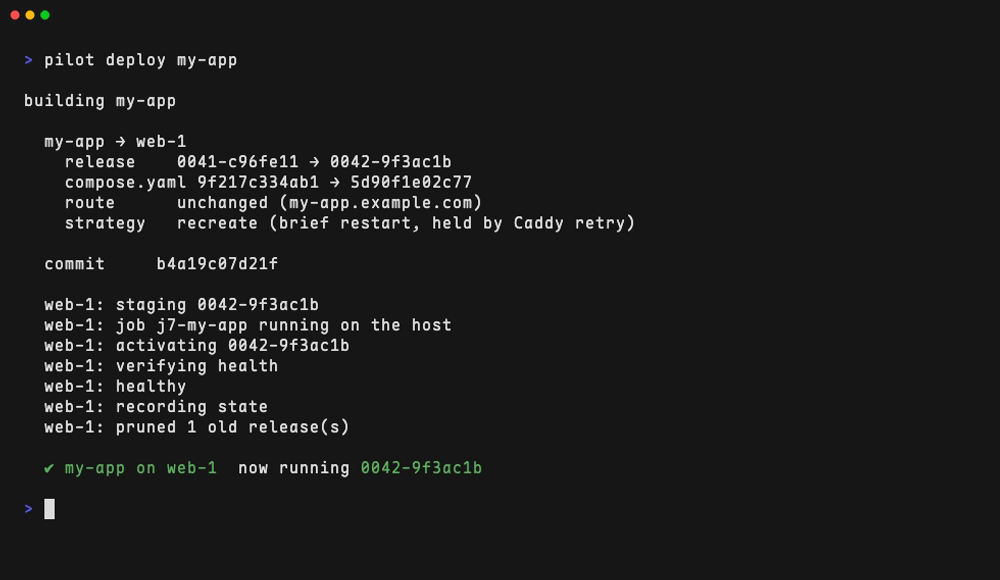
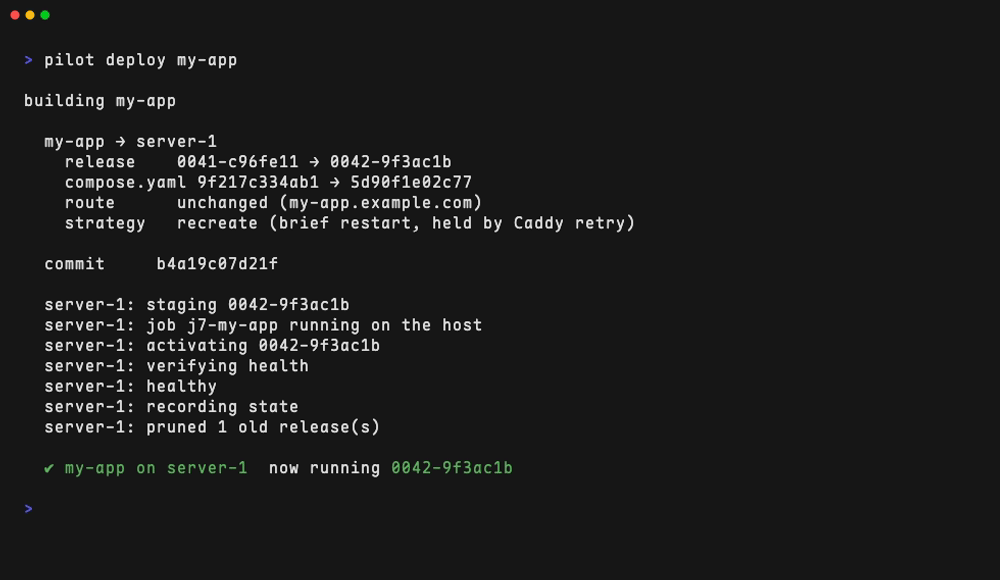
docs(readme): hosts are called servers, because that is what they are
web-1 and web-2 read as jargon to anyone who does not already know they
are hostnames. Every reader-facing example now says server-1, server-2,
server-3 — the diagram, the quick look, the captures, the notification
sample, and the CI job — and the selector example uses the @prod tag
instead of @web.

diff --git a/docs/readme/demo/main.go b/docs/readme/demo/main.go
@@ -38,7 +38,7 @@ func main() {
 	case "status":
 		render.Status(w, statusRows())
 	case "doctor":
-		render.Doctor(w, doctorReport(), []string{"web-1", "web-2", "box-1"})
+		render.Doctor(w, doctorReport(), []string{"server-1", "server-2", "server-3"})
 	case "deploy":
 		printDeploy()
 	default:
@@ -51,13 +51,13 @@ func main() {
 
 func statusRows() []render.StatusRow {
 	return []render.StatusRow{
-		{Service: "api", Host: "web-1", State: "running", Release: "0042-9f3ac1b"},
-		{Service: "api", Host: "web-2", State: "running", Release: "0042-9f3ac1b"},
-		{Service: "backup", Host: "web-1", State: "running", Release: "0019-8eec9e0", Detail: "next Fri 00:23 UTC"},
-		{Service: "db", Host: "web-1", State: "running", Release: "0007-1fe22a1", Detail: "observe only"},
-		{Service: "objects", Host: "box-1", State: "running", Release: "0031-4c00e8d"},
-		{Service: "site", Host: "web-1", State: "running", Release: "0040-b52ffa1"},
-		{Service: "site", Host: "web-2", State: "running", Release: "0040-b52ffa1"},
+		{Service: "api", Host: "server-1", State: "running", Release: "0042-9f3ac1b"},
+		{Service: "api", Host: "server-2", State: "running", Release: "0042-9f3ac1b"},
+		{Service: "backup", Host: "server-1", State: "running", Release: "0019-8eec9e0", Detail: "next Fri 00:23 UTC"},
+		{Service: "db", Host: "server-1", State: "running", Release: "0007-1fe22a1", Detail: "observe only"},
+		{Service: "objects", Host: "server-3", State: "running", Release: "0031-4c00e8d"},
+		{Service: "site", Host: "server-1", State: "running", Release: "0040-b52ffa1"},
+		{Service: "site", Host: "server-2", State: "running", Release: "0040-b52ffa1"},
 	}
 }
 
@@ -68,16 +68,16 @@ func doctorReport() *doctor.Report {
 	return &doctor.Report{Findings: []doctor.Finding{
 		ok(doctor.ScopeConfig, "", "fleet.yaml valid (3 hosts, 5 services)", ""),
 
-		ok(doctor.ScopeHost, "web-1", "docker available", ""),
-		ok(doctor.ScopeHost, "web-1", "agent 0.11.2 (protocol 8)", ""),
-		ok(doctor.ScopeHost, "web-1", "/etc/caddy/Caddyfile imports pilot.d/*.caddy", ""),
-		ok(doctor.ScopeHost, "web-1", "disk 34% used", ""),
+		ok(doctor.ScopeHost, "server-1", "docker available", ""),
+		ok(doctor.ScopeHost, "server-1", "agent 0.11.2 (protocol 8)", ""),
+		ok(doctor.ScopeHost, "server-1", "/etc/caddy/Caddyfile imports pilot.d/*.caddy", ""),
+		ok(doctor.ScopeHost, "server-1", "disk 34% used", ""),
 
-		ok(doctor.ScopeEdge, "", "api.example.com", "→ web-1, web-2  DNS ok  TLS valid 71d"),
-		ok(doctor.ScopeEdge, "", "example.com", "→ web-1, web-2  DNS ok  TLS valid 84d"),
+		ok(doctor.ScopeEdge, "", "api.example.com", "→ server-1, server-2  DNS ok  TLS valid 71d"),
+		ok(doctor.ScopeEdge, "", "example.com", "→ server-1, server-2  DNS ok  TLS valid 84d"),
 		{Status: doctor.StatusWarn, Scope: doctor.ScopeEdge, Title: "www.example.com",
-			Detail: "→ web-1, web-2  DNS ok  TLS valid 9d (renewal window)"},
-		ok(doctor.ScopeEdge, "", "objects.example.com", "→ box-1  DNS ok  TLS valid 89d"),
+			Detail: "→ server-1, server-2  DNS ok  TLS valid 9d (renewal window)"},
+		ok(doctor.ScopeEdge, "", "objects.example.com", "→ server-3  DNS ok  TLS valid 89d"),
 	}}
 }
 
@@ -89,7 +89,7 @@ func printDeploy() {
 	svc := &config.Service{
 		Name:    "my-app",
 		Runtime: config.RuntimeCompose,
-		Hosts:   []string{"web-1"},
+		Hosts:   []string{"server-1"},
 		Expose:  &config.Expose{Domains: []string{"my-app.example.com"}, Upstream: 8080},
 	}
 	plan := &deploy.Plan{
@@ -97,7 +97,7 @@ func printDeploy() {
 		Release: "0042-9f3ac1b",
 		Commit:  "b4a19c07d21f",
 		Hosts: []deploy.HostPlan{{
-			Host: "web-1", From: "0041-c96fe11", To: "0042-9f3ac1b",
+			Host: "server-1", From: "0041-c96fe11", To: "0042-9f3ac1b",
 			Route: deploy.RouteNone,
 			Changes: []deploy.Change{
 				{Field: "compose.yaml", From: "9f217c334ab1", To: "5d90f1e02c77"},
@@ -122,9 +122,9 @@ func printDeploy() {
 		"recording state",
 		"pruned 1 old release(s)",
 	} {
-		fmt.Fprintf(w, "  web-1: %s\n", line)
+		fmt.Fprintf(w, "  server-1: %s\n", line)
 	}
 	fmt.Fprintln(w)
 
-	render.Outcomes(w, []deploy.Outcome{{Service: "my-app", Host: "web-1", Succeeded: true, Release: "0042-9f3ac1b"}})
+	render.Outcomes(w, []deploy.Outcome{{Service: "my-app", Host: "server-1", Succeeded: true, Release: "0042-9f3ac1b"}})
 }

diff --git a/README.md b/README.md
@@ -48,12 +48,12 @@ flowchart LR
     deploy["pilot deploy my-app"] --> build["build\nlocally"]
     build -- ssh --> rel1
     build -- ssh --> rel2
-    subgraph web1 ["web-1"]
+    subgraph s1 ["server-1"]
         rel1["releases/0042-9f3ac1b"] -- "atomic swap" --> cur1(["current"])
         cur1 --> caddy1["Caddy route"]
         agent1["pilotd\nverifies health"] -. "failure → swap back" .-> cur1
     end
-    subgraph web2 ["web-2"]
+    subgraph s2 ["server-2"]
         rel2["releases/0042-9f3ac1b"] -- "atomic swap" --> cur2(["current"])
     end
 ```
@@ -74,15 +74,15 @@ See [DESIGN.md](DESIGN.md) for the full design and the reasoning behind it.
 # fleet.yaml
 version: 1
 hosts:
-  web-1:
-    address: web1.example.com
+  server-1:
+    address: server1.example.com
     sudo: true
 ```
 
 ```yaml
 # services/my-app/service.yaml — the directory is the source, so no `source:` line
 runtime: compose
-hosts: [web-1]
+hosts: [server-1]
 compose: {file: compose.yaml}
 expose:  {domains: [my-app.example.com], upstream: 8080}
 health:  {http: {url: "http://127.0.0.1:8080/healthz"}}
@@ -91,7 +91,7 @@ health:  {http: {url: "http://127.0.0.1:8080/healthz"}}
 ```
 pilot init              create a fleet configuration to start from
 pilot doctor            is this setup sound?
-pilot bootstrap web-1   prepare the host, install the agent
+pilot bootstrap server-1 prepare the host, install the agent
 pilot deploy my-app     build, ship, activate, verify
 pilot status            what is running, and what has drifted
 pilot rollback my-app   return to the previous release
@@ -147,8 +147,8 @@ pilot skill                the agent skill; --install writes it for Claude Code
 pilot upgrade              replace this binary with the latest release
 ```
 
-Selectors work where they make sense: `pilot deploy @web` deploys every service
-on hosts tagged `web`, and `pilot status api` narrows to one service.
+Selectors work where they make sense: `pilot deploy @prod` deploys every service
+on hosts tagged `prod`, and `pilot status api` narrows to one service.
 
 ## Routing
 
@@ -236,9 +236,9 @@ test delivery without sending anything anywhere.
 A deploy notification carries the command that reverses it:
 
 ```
-PILOT: api on web-1
-api deployed 0042-9f3ac1b
-undo with:  pilot rollback api
+PILOT: my-app on server-1
+my-app deployed 0042-9f3ac1b
+undo with:  pilot rollback my-app
 ```
 
 It fires whoever ran the deploy — Pilot does not detect or care. That is the
@@ -327,7 +327,7 @@ jobs:
       - uses: webfactory/ssh-agent@v0.9.0
         with:
           ssh-private-key: ${{ secrets.DEPLOY_SSH_KEY }}
-      - run: ssh-keyscan web1.example.com >> ~/.ssh/known_hosts
+      - run: ssh-keyscan server1.example.com >> ~/.ssh/known_hosts
       - run: brew install Gandalf-Le-Dev/tap/pilot
       - run: pilot deploy my-app
 ```
